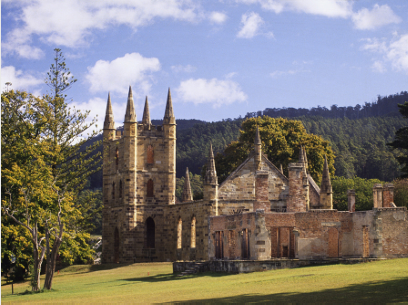
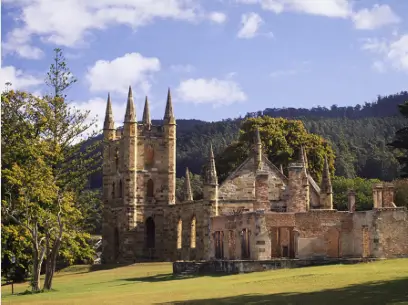
Optimaization

diff --git a/index.html b/index.html
@@ -32,8 +32,8 @@
                 <p class="responph">We are Featured in <br>the views of our <br>picturesque trips</p>
             </div>
             <div class="view" dir="rtl">
-                <img src="Images/view1.png" alt="View">
-                <img src="Images/view2.png" alt="View">
+                <img src="Images/view1.webp" alt="View">
+                <img src="Images/view2.webp" alt="View">
             </div>
             <p class="responpb">We are Featured in the views of our picturesque trips</p>
         </div>
@@ -47,7 +47,7 @@
             </div>
             <div class="view" dir="rtl">
                 <img src="Images/view3.webp" alt="View" class="special">
-                <img src="Images/view4.png" alt="View">
+                <img src="Images/view4.webp" alt="View">
                 <img src="Images/view5.webp" alt="View" class="special-img">
             </div>
         </div>
